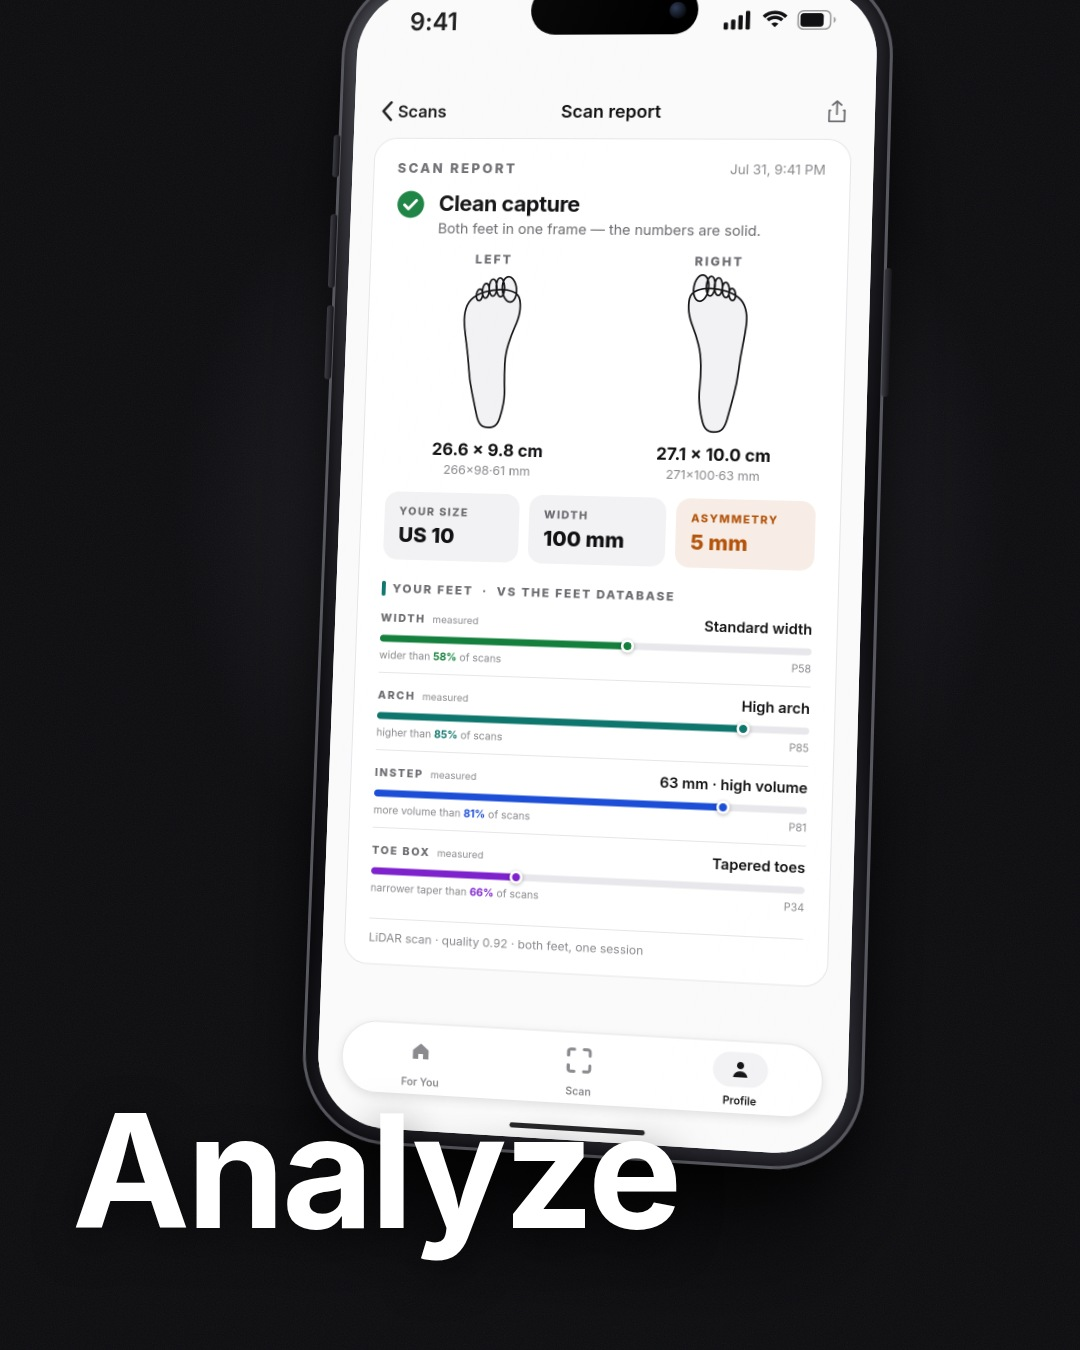
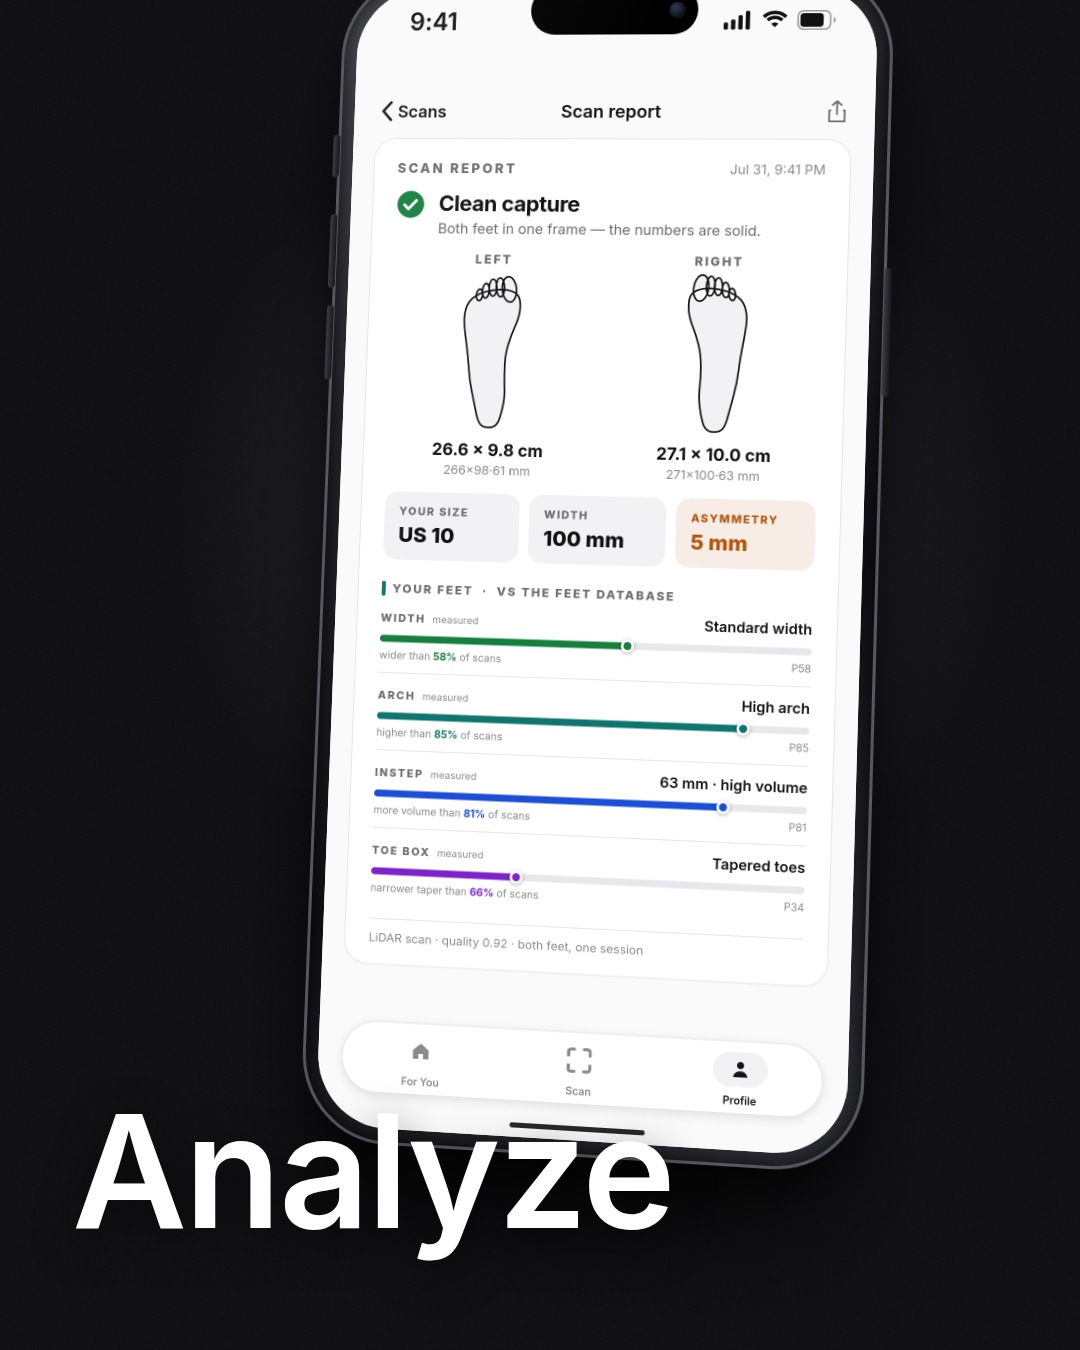
pins: Inter SemiBold everywhere
SemiBold (600) is now the caption weight in the stamper default, the
rendered pins (tracking eased to -0.015em), and the prompts, which carry
the word again with an explicit 'weight 600 — medium weight, NOT bold or
heavy' instruction. Restamping stays the fix for cross-post unevenness.

Claude-Session: https://claude.ai/code/session_01DF12MeCQsBsp8TmeobhWMm

Changed region(s): [[0.2444, 0.84, 0.6417, 0.9333], [0.1528, 0.84, 0.2139, 0.9022], [0.0917, 0.84, 0.1528, 0.9022]]

diff --git a/_tools/pins-scene.css b/_tools/pins-scene.css
@@ -122,7 +122,7 @@ html, body {
 
 .word {
   position: absolute; left: 72px; bottom: 96px; z-index: 60;
-  font-size: 158px; font-weight: 700; letter-spacing: -0.02em; color: #fff;
+  font-size: 158px; font-weight: 600; letter-spacing: -0.015em; color: #fff;
   line-height: 1.06;
   text-shadow: 0 12px 44px rgba(0,0,0,0.55);
 }

diff --git a/pins/NANOBANANA.md b/pins/NANOBANANA.md
@@ -4,20 +4,22 @@ Four requirements, and one of them can't come from the model:
 
 - **Black background** — in the prompts.
 - **Photorealistic phone + screen** — in the prompts.
-- **Same font, size and position for the word in all three** — NOT possible
-  from three independent generations. The prompts therefore leave the
-  bottom-left empty, and the word is stamped afterwards with the real
-  Inter Bold file at fixed coordinates. On a pure black backdrop the
-  stamp is seamless.
+- **Same font, size and position for the word in all three** — the prompts
+  all carry the identical word spec (Inter SemiBold, cap height one eighth
+  of the image height, bottom-left, half-letter-height gaps). Three separate
+  generations still won't match to the pixel, so if they come back uneven,
+  don't re-roll: send them back and the word gets restamped with the real
+  Inter SemiBold file at fixed coordinates — seamless on pure black.
 
 ## Workflow
 
 1. Fresh chat per post → attach the matching `screenshot.png` → paste the
-   prompt. You get three photoreal, word-less images.
-2. Send those three back to Claude in this repo: **"stamp the words"**.
+   prompt. You get three photoreal posts.
+2. If the words came out uneven between posts, send the three back to Claude
+   in this repo: **"stamp the words"**.
    (Or run it yourself: `cd _tools && node stamp-word.mjs <image> Scan
-   ../pins/01-scan/final.jpg`, etc. — add `--weight 600` for lighter or
-   `--weight 800` for heavier.)
+   ../pins/01-scan/final.jpg`, etc. — add `--weight 700` for Bold or
+   `--weight 800` for ExtraBold.)
 3. Three finished posts with byte-identical typography.
 
 ---
@@ -37,7 +39,7 @@ Four requirements, and one of them can't come from the model:
 > photo taken by a product photographer.
 >
 > The phone occupies the upper two thirds of the frame. The bottom quarter of
-> the image is pure flat black, completely empty.
+> the image is pure flat black, reserved for the caption word.
 >
 > The attached screenshot is the phone's screen. Keep every UI element on it
 > exactly as it is — the status bar, the "LiDAR · BOTH FEET" pill, the "Hold
@@ -59,8 +61,17 @@ Four requirements, and one of them can't come from the model:
 > drawn or illustrated, discard it entirely and generate a real photograph in
 > its place.
 >
-> No text, words, captions, logos, sparkles, stars or watermarks anywhere
-> outside the phone screen. The bottom quarter stays empty black.
+> Then add the caption word "Scan" — the complete word, every letter fully
+> visible, drawn IN FRONT of everything so nothing covers any part of it.
+> Font: Inter SemiBold (weight 600 — medium weight, NOT bold or heavy),
+> white, no underline. Size: the capital letter is exactly one eighth of the
+> image height tall. Position: bottom-left corner of the image — the gap
+> between the first letter and the left edge, and the gap between the word
+> and the bottom edge, are both equal to half a letter height. Do not
+> enlarge, shrink, or re-center the word.
+>
+> No other text, logos, sparkles, stars or watermarks anywhere outside the
+> phone screen.
 
 ---
 
@@ -80,7 +91,7 @@ Four requirements, and one of them can't come from the model:
 > photo taken by a product photographer.
 >
 > The phone occupies the upper two thirds of the frame. The bottom quarter of
-> the image is pure flat black, completely empty.
+> the image is pure flat black, reserved for the caption word.
 >
 > The attached screenshot is the phone's screen. Place it on the display
 > exactly as it is — every number, label, gauge bar, foot outline and word
@@ -89,8 +100,18 @@ Four requirements, and one of them can't come from the model:
 > sits under glass with a subtle reflection, and the white interface casts no
 > light onto the black background.
 >
-> No text, words, captions, logos, sparkles, stars or watermarks anywhere
-> outside the phone screen. The bottom quarter stays empty black.
+> Then add the caption word "Analyze" — the complete word, every letter fully
+> visible, drawn IN FRONT of everything so nothing covers any part of it.
+> Font: Inter SemiBold (weight 600 — medium weight, NOT bold or heavy),
+> white, no underline. Size: the capital letter is exactly one eighth of the
+> image height tall — it is a longer word, so at
+> that fixed letter height it simply runs wider. Position: bottom-left corner of the image — the gap
+> between the first letter and the left edge, and the gap between the word
+> and the bottom edge, are both equal to half a letter height. Do not
+> enlarge, shrink, or re-center the word.
+>
+> No other text, logos, sparkles, stars or watermarks anywhere outside the
+> phone screen.
 
 ---
 
@@ -109,7 +130,7 @@ Four requirements, and one of them can't come from the model:
 > photo taken by a product photographer.
 >
 > The phone occupies the upper two thirds of the frame. The bottom quarter of
-> the image is pure flat black, completely empty.
+> the image is pure flat black, reserved for the caption word.
 >
 > The attached screenshot is the phone's screen. Place it on the display
 > exactly as it is — every shoe name, brand line, row number, size line and
@@ -118,14 +139,24 @@ Four requirements, and one of them can't come from the model:
 > the screen — keep that cut. The screen is emissive: it glows faintly and
 > sits under glass with a subtle reflection.
 >
-> No text, words, captions, logos, sparkles, stars or watermarks anywhere
-> outside the phone screen. The bottom quarter stays empty black.
+> Then add the caption word "Choose" — the complete word, every letter fully
+> visible, drawn IN FRONT of everything so nothing covers any part of it.
+> Font: Inter SemiBold (weight 600 — medium weight, NOT bold or heavy),
+> white, no underline. Size: the capital letter is exactly one eighth of the
+> image height tall. Position: bottom-left corner of the image — the gap
+> between the first letter and the left edge, and the gap between the word
+> and the bottom edge, are both equal to half a letter height. Do not
+> enlarge, shrink, or re-center the word.
+>
+> No other text, logos, sparkles, stars or watermarks anywhere outside the
+> phone screen.
 
 ---
 
 ## Checking a result
 
-1. Bottom quarter completely empty — no word, no sparkle/star glyph.
+1. The word: complete, bottom-left, medium weight (not heavy), same letter
+   height across all three, no underline, no sparkle/star glyph.
 2. Background truly black, no glow or shadow.
 3. Screen text matches the attachment — brand lines (NIKE not MIKE, JORDAN
    not JERDAN), "½ size up", "US 10", the fit percentages.
